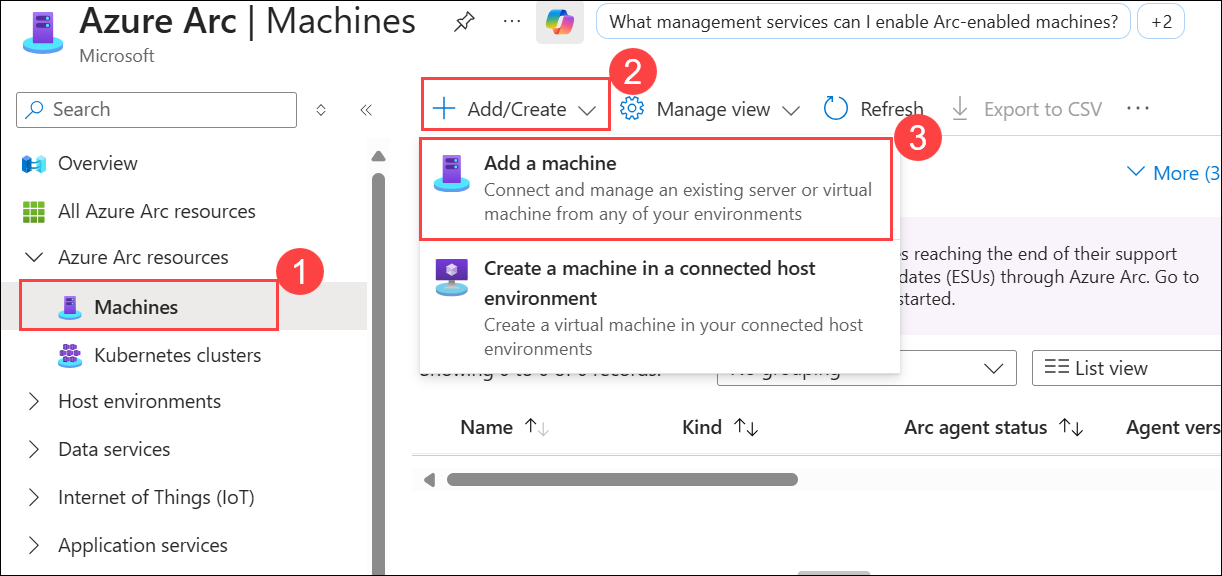
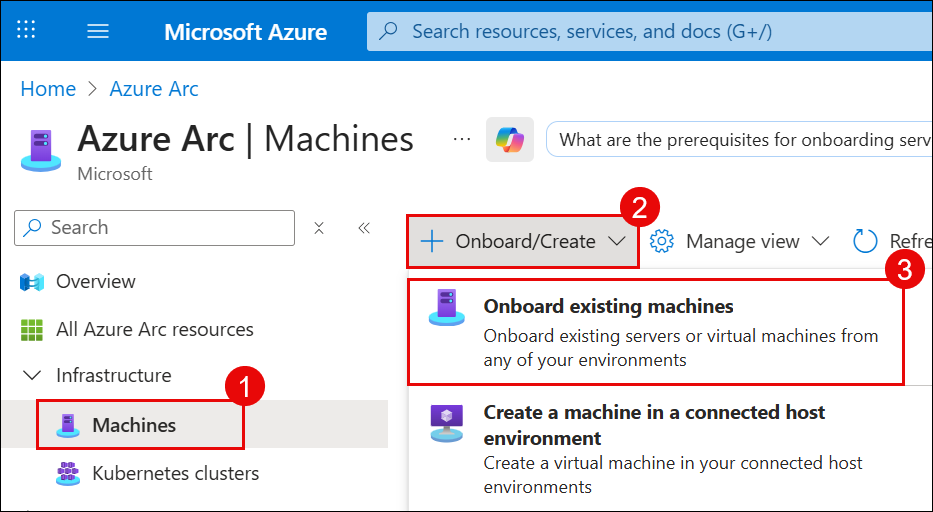
Update

diff --git a/Labfiles/module1-exercise2.md b/Labfiles/module1-exercise2.md
@@ -102,9 +102,13 @@ In this task, you will configure the Azure Migrate dependency visualization feat
 
      > **Note**: If you don't see the workspace here. You can attempt to close and reopen the Workspace, or you can try refreshing the browser page. This may have been caused by a temporary error in the portal.
 
+    >**Note**: If the Workspace ID and Key are visible under Dependencies, please copy both values and save them in a Notepad document.
+
 1. From the **Log Analytics workspace** screen: Select **Agents (2)** under **Settings (1)** from the left-hand side menu and Expand the **Log analytics agent instructions (3)** and make a note of the **Workspace ID (4)** and **Primary Key (5)**. You can copy them using the copy icon and paste them into Notepad for later use.
 
     ![Screenshot of part of the Azure Migrate 'Dependencies' blade, showing the OMS workspace ID and key.](Images/infra-l1-4.png "OMS Workspace ID and primary key")
+
+    >**Note**: You may not have the option to view the Workspace ID and Primary Key directly. If they are not visible, go to the Dependencies page referenced in Step 6 to access them.
 
 1. On the **Dependencies** screen, under **Step 1**, right-click to copy the download links for **Windows 64-bit** and **Linux** versions of the **Microsoft Monitoring Agent (1)**, then under **Step 2**, copy the links for the **Windows 64-bit** and **Linux** versions of the **Dependency Agent (2)**, and save them along with the previously noted **Workspace ID** and **Primary Key** .
    
@@ -188,10 +192,13 @@ In this task, you will configure the Azure Migrate dependency visualization feat
     ```bash
     ssh demouser@192.168.0.8
     ```
-
+    > **Note**: If Ctrl + V does not work in Command Prompt, right-click inside the window or press Shift + Insert to paste the command.
+    
 1. Enter 'yes' when prompted whether to connect. Enter the password **<inject key="SmartHotel Admin Password" />**.
 
     ![Screenshot showing the command prompt with an SSH session to UbuntuWAF.](Images/ssh.png "SSH session with UbuntuWAF")
+
+    >**Note**: The Command Prompt does not display password characters while typing. This is normal. Simply paste your password into the window and press Enter.
 
 1. Enter the following command, followed by the password **<inject key="SmartHotel Admin Password" />** when prompted:
   

diff --git a/Labfiles/module1-exercise1.md b/Labfiles/module1-exercise1.md
@@ -171,11 +171,13 @@ In this task, you will deploy the Azure Migrate appliance in the on-premises Hyp
      - On the **Are you trying to sign in to Microsoft Azure PowerShell?** prompt, select **Continue** to complete the login. 
 
         ![](./Images/AIM-image43.png)
-       
+    
 1. Once signed in, return to the Azure Migrate Appliance tab the appliance registration will begin automatically and display The appliance has been successfully registered once complete.
 
    ![Screenshot of the Azure Migrate appliance configuration wizard, showing the registration with the Azure Migrate project as completed.](Images/15-7-25-l1-23.png "Appliance registered")
 
+    > **Note**: The sign-in process can take between 5 and 10 minutes.
+    
 1. Once registration is complete, navigate to the **Manage credentials and discovery sources** panel. Under **Step 1: Provide Hyper-V host credentials for discovery of Hyper-V VMs**, click **Add credentials** to proceed.
 
     ![Screenshot of the Azure Migrate appliance configuration wizard, showing the 'Add credentials' button.](Images/15-7-25-l1-24.png)

diff --git a/Labfiles/module2-exercise2.md b/Labfiles/module2-exercise2.md
@@ -33,9 +33,13 @@ In this task, you will configure the Azure Migrate dependency visualization feat
 
     ![](Images/15-7-25-l6-l4.png)
 
+    > **Note**: If you can see the Workspace ID and Key in Dependencies, copy both and paste them into a Notepad file.
+
 1. On the **AzureMigrate | Agents** page, expand **Settings (1)** from the left-hand menu and select **Agents (2)**. Make a note of the **Workspace ID (3)** and **Primary key (4)** you’ll need them during agent setup (you can save them in Notepad for quick access).
 
     ![](Images/15-7-25-l6-3.png)
+
+    Note: You may not have the option to view the Workspace ID and Primary Key directly. If they are not visible, go to the Dependencies page referenced in previous step to access them.
 
 1. You will now deploy the Linux versions of the Microsoft Monitoring Agent and Dependency Agent on the **redhat** VM. To do so, you will first connect to the Red Hat VM remotely using an SSH session.
 

diff --git a/Labfiles/HOL3-exercise1.md b/Labfiles/HOL3-exercise1.md
@@ -27,13 +27,9 @@ In this exercise, you will deploy and configure the Azure Connected Machine agen
    
     ![Screenshot of the search azure arc.](Images/15-7-25-l9-11.png "search azure arc")
   
-1. On the **Azure Arc** page, select **Machines (1)** under **Azure Arc Resources** from left pane, click on **+Add/Create (2)**, then **Add a machine (3)**.
+1. On the **Azure Arc** page, select **Machines (1)** under **Infrastructure** from left pane, click on **Onboard/Create (2)**, then **Onboard existing machine (3)**.
     
     ![Screenshot of the add server.](Images/AIM-image17.png "add server")
-    
-1. On the **Add servers with Azure Arc** page, then click **Generate script** under Add a single server.
-
-    ![Screenshot of the Generate script.](Images/AIM-image18.png "Generate script")
     
 1. On the **Add servers with Azure Arc** page, In the **Basics** section, add the following details:
      
